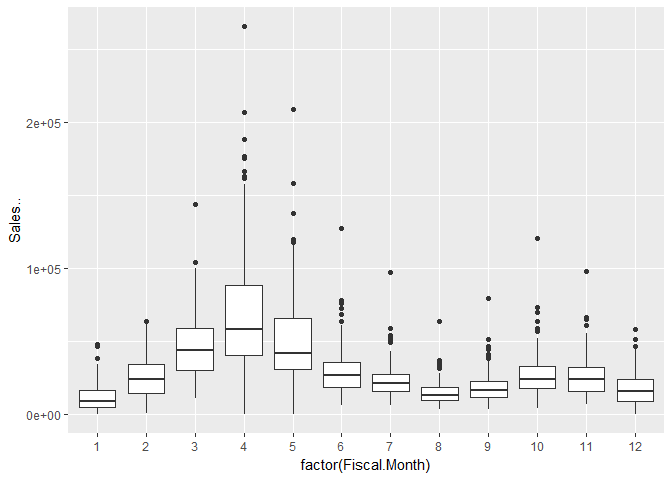
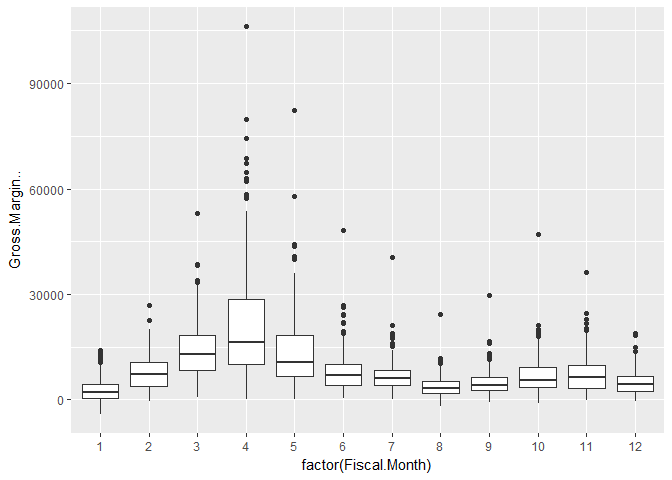
Add files via upload

diff --git a/Sample_Size_Markdown.md b/Sample_Size_Markdown.md
@@ -10,17 +10,18 @@ output:
 
 
    
-
 ### Choosing the right sample size for A/B testing
-#### I wrote this markdown for a company that needed help determining the minimum number of test and control groups needed to test their hypothesis. The company was interested in determining whether removing a cohort of less desirable SKU's from a group of test stores would decrease total profitability in those stores. To do this I used a technique called 'Power Analysis'.
+#### This markdown shows the basics of sample size estimation. In this example I show how I helped a company determine the correct sample size to test their hypothesis. The company was interested in determining whether removing a cohort of less desirable SKU's from a group of stores would decrease total profitability in those stores. To do this I used a technique called 'Power Analysis'.
 
-##### Power is the probability of rejecting a null hypothesis when it is false. Therefore, we need to define what "false" means to us in the context of our problem. For this would be how much difference between the test and control group do we need to observe in order to reject the null hypothesis and conclude that the action worked?
+#### Performing power analysis and sample size estimation is an important aspect of setting up an experiment, because without these calculations, sample size may be too high or too low. If sample size is too low, the experiment will lack the precision to provide reliable answers to the questions it is investigating. If sample size is too large, time and resources will be wasted, often for minimal gain. 
 
-##### I was able to find a power analysis package in R that allows us to solve for the optimal sample size based on significance level, power, and detectable difference. Below I have outlined the steps used to determine these 3 parts of the equation.
+#### Power is the probability of rejecting a null hypothesis when it is false i.e. not committing a type 2 error. Therefore, we need to define what "false" means to us in the context of our problem. In this example, the null hypothesis should be a one-sided test that profitability in the test groups is lower than profitability in the control groups. Therefore, "false" in this example would be the opposite, that profitability is higher in the test groups that have less SKU's.
+
+#### I was able to find a power analysis package in R that allows us to solve for the optimal sample size based on significance level, power, and detectable difference. Below I have outlined the steps used to determine these 3 parts of the equation.
 1. Define the Null Hypothesis:
-- H0: Sales in test and control group are equal
-- H1: Sales in test and control group are different
-This is a two-sided hypothesis, since we are testing if the sales increased or decreased.
+- H0: Sales in the test groups and less than the control groups
+- H1: Sales in the test groups are higher than the control groups
+This is a one-sided hypothesis, since we are only testing if the sales increased.
 
 2. Determining Power and Significance Level
 - Type 1 Error (False Positive): Rejecting the null hypothesis when is it actually true 
@@ -31,12 +32,12 @@ The probability of committing a Type 2 error is called the power.
 - A typical requirement for the power is 80%. In other words, we will tolerate a 20% chance of a type 2 error (1 - power). The typical requirement for the significance level is 5%.
 
 3. Determining what a proper detectable difference should be
-For this problem, the detectable difference is the difference in sales between test and control stores that would be considered "significant". We cannot solve for the sample size without first specifying the level of impact we want to be able to detect with our test. The key is to define what "pay off" means for this study, which depends on what would be considered a success as well as the cost of running the study. Since I didn't have exact cost estimates that it would take to run this study I asked for a range and used this in my analysis. Using a range also allowed us to see exactly how the minimum sample size relates with a change in detectable differences. 
+For this problem, the detectable difference is the difference in profitablity between test and control stores that would be considered "significant". We cannot solve for the sample size without first specifying the level of impact we want to be able to detect with our test. The key is to define what "pay off" means for this study, which depends on what would be considered a success as well as the cost of running the study. Since I didn't have exact cost estimates that it would take to run this study I asked for a range and used this in my analysis. Using a range also allowed us to see exactly how the minimum sample size relates with a change in detectable differences. 
 
 Below I will walk through the steps described with actual data:
 
 First, I want to do a cursery glance at the data to make sure it is structured correctly and looks reasonable.                                   
-1. I am mainly concerned with the Sales column. It appears that there is a least one row with zero sales. I will need to get rid of these.
+1. I am mainly concerned with the Gross Margin and Sales columns. It appears that there is a least one row with zero sales. I will need to get rid of these.  
 2. I don't see any null values. This is great.
 
 ```r
@@ -118,7 +119,7 @@ Next I take a look at how sales vary over the course of the year. The company th
 
 ```r
 ggplot(data=sales_raw)+
-  geom_boxplot(aes(x=factor(Fiscal.Month),y=Sales..))
+  geom_boxplot(aes(x=factor(Fiscal.Month),y=Gross.Margin..))
 ```
 
 ![](Sample_Size_Markdown_files/figure-html/unnamed-chunk-2-1.png)<!-- -->
@@ -136,12 +137,12 @@ In order to run the power analysis I need 4 pieces of information:
 ```r
 sales_stats<-sales_raw%>%
   group_by(factor(Fiscal.Month))%>%
-  summarise(std_dev = sd(Sales..))
+  summarise(std_dev = sd(Gross.Margin..))
 mean(sales_stats[sales_stats$`factor(Fiscal.Month)`%in%c(10,11,12),]$std_dev)
 ```
 
 ```
-## [1] 13254.41
+## [1] 4807.233
 ```
 
 
@@ -150,7 +151,7 @@ This code builds out a data frame that has two columns:
 2. The results of the power.t.test function i.e. the sample size required to detect with 80% power for each Detectable Difference level. 
 
 ```r
-sd1 <-  13254 # std dev of sales
+sd1 <-  4800 # std dev of sales
 b <- 0.8 # power 
 a <- 0.05 # significance level
 dd <- seq(from = 500, to = 15000, by = 50) # detectable differences
@@ -159,7 +160,7 @@ names(result) <- c("DD", "ni")
 for (i in 1:length(dd)) {
   result[i, "DD"] <- dd[i]
   number <- power.t.test(n=NULL, delta = dd[i], sd=sd1, sig.level=a, power=b,
-                         alternative = 'two.sided')  
+                         alternative = 'one.sided')  
   result[i, "ni"] <-number$n
 }
 ```
@@ -168,21 +169,12 @@ This plot shows the results of the power.t.test for each level of detectable dif
 
 ```r
 ggplot(data = result, aes(x = DD, y = ni)) +
-  geom_line() + ylab("n") + xlab("Detectable difference") + 
-  scale_x_continuous(labels = comma, breaks = seq(0,15000,2500))+
-  scale_y_continuous(labels = comma, breaks = seq(0,10000,1000))
+  geom_line() + ylab("Sample Size Needed") + xlab("Detectable difference in $") + 
+  scale_x_continuous(labels = comma, breaks = seq(0,15000,2500), limits = c(0,15000)) +
+  scale_y_continuous(labels = comma,breaks = seq(0,1000,50), limits = c(0,500))
 ```
 
 ![](Sample_Size_Markdown_files/figure-html/unnamed-chunk-5-1.png)<!-- -->
-
-```r
-ggplot(data = result, aes(x = DD, y = ni)) +
-  geom_line() + ylab("n") + xlab("Detectable difference") + 
-  scale_x_continuous(labels = comma, breaks = seq(0,10000,1000), limits = c(5000,10000)) +
-  scale_y_continuous(labels = comma,breaks = seq(0,100,10), limits = c(30,100))
-```
-
-![](Sample_Size_Markdown_files/figure-html/unnamed-chunk-5-2.png)<!-- -->
 
 
 
